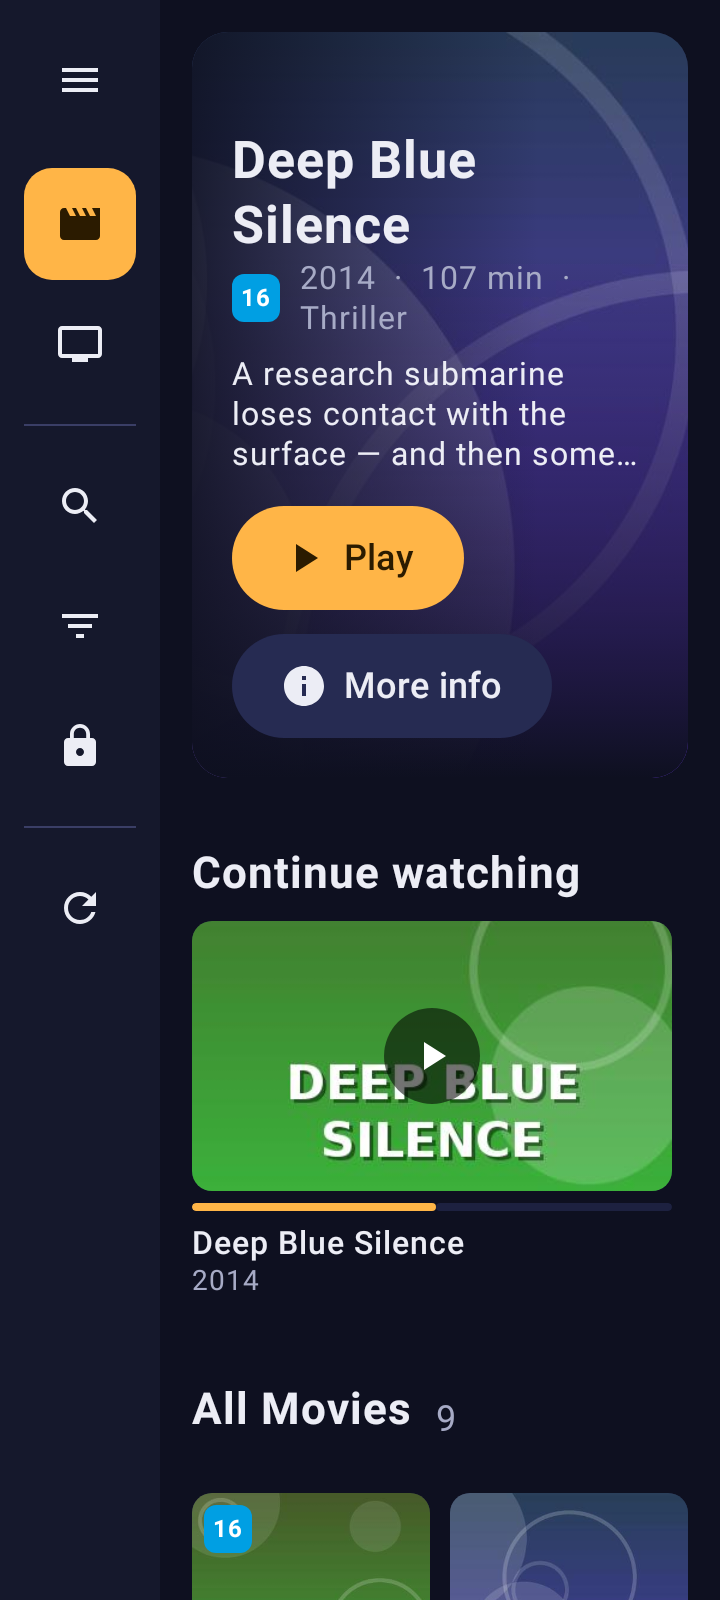
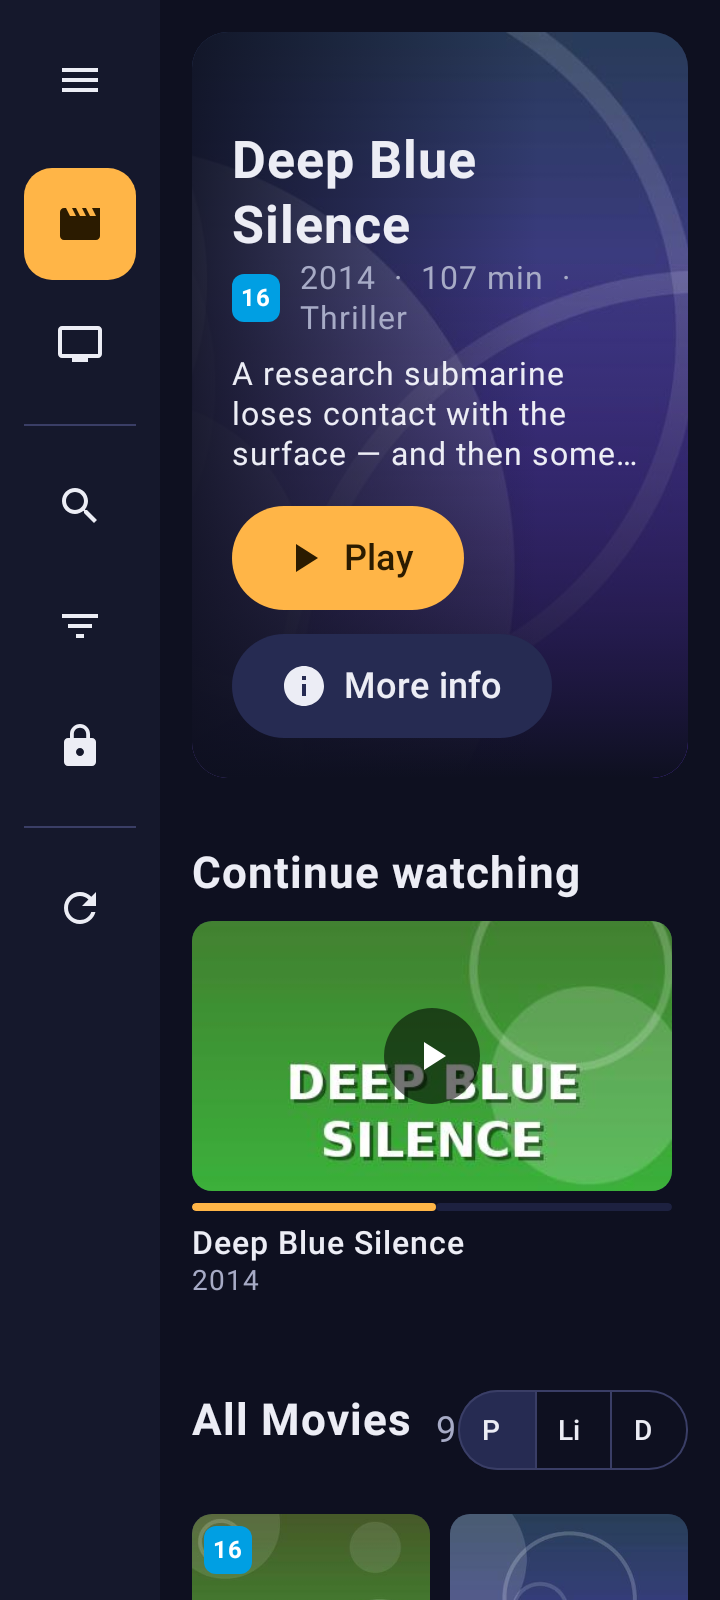
+ display modes for the walls: posters, list and details, remembered (closes #49) + list rows show poster, title, watched tick, age badge, year and runtime, genres, probed quality badges + details rows add two lines of plot * WatchedTick, QualityChips and rememberQuality shared from Badges.kt * READ

Changed region(s): [[0.2444, 0.8438, 0.9778, 1.0]]

diff --git a/app/src/main/kotlin/com/hawkynt/mediadroid/ui/Browse.kt b/app/src/main/kotlin/com/hawkynt/mediadroid/ui/Browse.kt
@@ -7,7 +7,6 @@ import androidx.compose.foundation.layout.BoxWithConstraints
 import androidx.compose.foundation.layout.Column
 import androidx.compose.foundation.layout.ExperimentalLayoutApi
 import androidx.compose.foundation.layout.FlowRow
-import androidx.compose.foundation.layout.heightIn
 import androidx.compose.foundation.layout.PaddingValues
 import androidx.compose.foundation.layout.Row
 import androidx.compose.foundation.layout.Spacer
@@ -15,6 +14,7 @@ import androidx.compose.foundation.layout.aspectRatio
 import androidx.compose.foundation.layout.fillMaxSize
 import androidx.compose.foundation.layout.fillMaxWidth
 import androidx.compose.foundation.layout.height
+import androidx.compose.foundation.layout.heightIn
 import androidx.compose.foundation.layout.padding
 import androidx.compose.foundation.layout.size
 import androidx.compose.foundation.layout.width
@@ -34,10 +34,14 @@ import androidx.compose.material.icons.filled.Info
 import androidx.compose.material.icons.filled.PlayArrow
 import androidx.compose.material3.AssistChip
 import androidx.compose.material3.Button
+import androidx.compose.material3.ExperimentalMaterial3Api
 import androidx.compose.material3.FilledTonalButton
 import androidx.compose.material3.Icon
 import androidx.compose.material3.LinearProgressIndicator
 import androidx.compose.material3.MaterialTheme
+import androidx.compose.material3.SegmentedButton
+import androidx.compose.material3.SegmentedButtonDefaults
+import androidx.compose.material3.SingleChoiceSegmentedButtonRow
 import androidx.compose.material3.Text
 import androidx.compose.runtime.Composable
 import androidx.compose.runtime.LaunchedEffect
@@ -102,13 +106,20 @@ fun BrowseScreen(
         LibrarySection.SHOWS -> "TV Shows"
     }
     val filtered = filter.copy(sort = SortOrder.TITLE) != BrowseFilter()
+    var mode by remember { mutableStateOf(store.wallMode) }
 
     // Phones get two or three posters across; tablets and TVs as many as fit.
     val compact = LocalConfiguration.current.screenWidthDp < 600
     val gutter = if (compact) 16.dp else 24.dp
     LazyVerticalGrid(
         state = gridState,
-        columns = GridCells.Adaptive(minSize = if (compact) 104.dp else 140.dp),
+        columns = GridCells.Adaptive(
+            minSize = when (mode) {
+                WallMode.POSTERS -> if (compact) 104.dp else 140.dp
+                WallMode.LIST -> 340.dp
+                WallMode.DETAILS -> 480.dp
+            },
+        ),
         contentPadding = PaddingValues(start = gutter, end = gutter, top = 16.dp, bottom = 32.dp),
         horizontalArrangement = Arrangement.spacedBy(if (compact) 10.dp else 14.dp),
         verticalArrangement = Arrangement.spacedBy(18.dp),
@@ -150,6 +161,15 @@ fun BrowseScreen(
                         modifier = Modifier.padding(top = 16.dp),
                     )
                 }
+                Spacer(Modifier.weight(1f).widthIn(min = 12.dp))
+                WallModeSwitch(
+                    mode,
+                    onChange = {
+                        mode = it
+                        store.saveWallMode(it)
+                    },
+                    modifier = Modifier.padding(top = 16.dp),
+                )
             }
         }
         if (items.isEmpty()) {
@@ -167,14 +187,93 @@ fun BrowseScreen(
             }
         }
         items(items, key = { it.key }) { item ->
-            PosterCard(
-                item = item,
-                watched = when (item) {
-                    is Movie -> store.marks.isWatched(item)
-                    is Show -> store.marks.isWatched(item)
-                },
-                onClick = { onOpen(item) },
+            val watched = when (item) {
+                is Movie -> store.marks.isWatched(item)
+                is Show -> store.marks.isWatched(item)
+            }
+            when (mode) {
+                WallMode.POSTERS -> PosterCard(item = item, watched = watched, onClick = { onOpen(item) })
+                else -> WallRow(item, watched, withPlot = mode == WallMode.DETAILS, onClick = { onOpen(item) })
+            }
+        }
+    }
+}
+
+/** Posters, a compact list, or a list with two lines of plot — the toggle at the head of the wall. */
+@OptIn(ExperimentalMaterial3Api::class)
+@Composable
+private fun WallModeSwitch(mode: WallMode, onChange: (WallMode) -> Unit, modifier: Modifier = Modifier) {
+    SingleChoiceSegmentedButtonRow(modifier) {
+        WallMode.entries.forEachIndexed { i, entry ->
+            SegmentedButton(
+                selected = mode == entry,
+                onClick = { onChange(entry) },
+                shape = SegmentedButtonDefaults.itemShape(i, WallMode.entries.size),
+                icon = {},
+                label = { Text(entry.label, fontSize = 14.sp, maxLines = 1) },
             )
+        }
+    }
+}
+
+/** One title as a list row: small poster, title with its watched tick, year and runtime, badges, plot. */
+@Composable
+private fun WallRow(item: MediaItem, watched: Boolean, withPlot: Boolean, onClick: () -> Unit) {
+    val shape = RoundedCornerShape(10.dp)
+    Row(
+        modifier = Modifier
+            .fillMaxWidth()
+            .clip(shape)
+            .focusClickable(shape = shape, onClick = onClick)
+            .padding(6.dp),
+    ) {
+        Box(
+            modifier = Modifier
+                .width(if (withPlot) 72.dp else 52.dp)
+                .aspectRatio(2f / 3f)
+                .clip(RoundedCornerShape(6.dp))
+                .background(MaterialTheme.colorScheme.surfaceVariant),
+        ) {
+            PosterImage(
+                item.posterPath,
+                fallbackLetter = item.title.take(1),
+                videoFallback = videoOf(item),
+                contentScale = ContentScale.Crop,
+            )
+        }
+        Spacer(Modifier.width(12.dp))
+        Column(Modifier.weight(1f), verticalArrangement = Arrangement.spacedBy(3.dp)) {
+            Row(verticalAlignment = Alignment.CenterVertically) {
+                Text(
+                    item.title,
+                    fontSize = 17.sp,
+                    fontWeight = FontWeight.SemiBold,
+                    maxLines = 1,
+                    overflow = TextOverflow.Ellipsis,
+                    modifier = Modifier.weight(1f, fill = false),
+                )
+                if (watched) {
+                    Spacer(Modifier.width(8.dp))
+                    WatchedTick(size = 20.dp)
+                }
+            }
+            Row(verticalAlignment = Alignment.CenterVertically) {
+                item.minAge?.let {
+                    AgeBadge(it, size = 18.dp)
+                    Spacer(Modifier.width(6.dp))
+                }
+                Text(
+                    metaLine(item),
+                    fontSize = 14.sp,
+                    color = MaterialTheme.colorScheme.onSurfaceVariant,
+                    maxLines = 1,
+                    overflow = TextOverflow.Ellipsis,
+                )
+            }
+            if (item is Movie) QualityChips(rememberQuality(item.videoPath, item.quality))
+            if (withPlot) {
+                plotOf(item)?.let { Text(it, fontSize = 14.sp, maxLines = 2, overflow = TextOverflow.Ellipsis) }
+            }
         }
     }
 }
@@ -235,12 +334,7 @@ private fun Hero(item: MediaItem, onPlay: () -> Unit, onInfo: () -> Unit) {
                     maxLines = 2,
                     overflow = TextOverflow.Ellipsis,
                 )
-                val meta = listOfNotNull(
-                    item.year?.toString(),
-                    (item as? Show)?.seasons?.size?.let { if (it == 1) "1 season" else "$it seasons" },
-                    (item as? Movie)?.runtimeMinutes?.let { "$it min" },
-                    item.genres.take(3).joinToString(" · ").ifEmpty { null },
-                ).joinToString("  ·  ")
+                val meta = metaLine(item)
                 Row(verticalAlignment = Alignment.CenterVertically) {
                     item.minAge?.let {
                         AgeBadge(it, size = 24.dp)
@@ -250,11 +344,7 @@ private fun Hero(item: MediaItem, onPlay: () -> Unit, onInfo: () -> Unit) {
                         Text(meta, fontSize = 16.sp, color = MaterialTheme.colorScheme.onSurfaceVariant)
                     }
                 }
-                val plot = when (item) {
-                    is Movie -> item.plot
-                    is Show -> item.plot
-                }
-                plot?.let {
+                plotOf(item)?.let {
                     Spacer(Modifier.height(8.dp))
                     Text(it, fontSize = 16.sp, maxLines = 3, overflow = TextOverflow.Ellipsis)
                 }
@@ -277,6 +367,19 @@ private fun Hero(item: MediaItem, onPlay: () -> Unit, onInfo: () -> Unit) {
             }
         }
     }
+}
+
+/** Year, seasons or runtime, and up to three genres, the way a card's second line reads. */
+private fun metaLine(item: MediaItem): String = listOfNotNull(
+    item.year?.toString(),
+    (item as? Show)?.seasons?.size?.let { if (it == 1) "1 season" else "$it seasons" },
+    (item as? Movie)?.runtimeMinutes?.let { "$it min" },
+    item.genres.take(3).joinToString(" · ").ifEmpty { null },
+).joinToString("  ·  ")
+
+private fun plotOf(item: MediaItem): String? = when (item) {
+    is Movie -> item.plot
+    is Show -> item.plot
 }
 
 private fun videoOf(item: MediaItem): String? = when (item) {
@@ -416,23 +519,7 @@ fun PosterCard(item: MediaItem, onClick: () -> Unit, watched: Boolean = false, m
             item.minAge?.let {
                 AgeBadge(it, size = 24.dp, modifier = Modifier.align(Alignment.TopStart).padding(6.dp))
             }
-            if (watched) {
-                Box(
-                    modifier = Modifier
-                        .align(Alignment.TopEnd)
-                        .padding(6.dp)
-                        .size(26.dp)
-                        .background(MaterialTheme.colorScheme.primary, CircleShape),
-                    contentAlignment = Alignment.Center,
-                ) {
-                    Icon(
-                        Icons.Filled.Check,
-                        contentDescription = "Watched",
-                        tint = MaterialTheme.colorScheme.onPrimary,
-                        modifier = Modifier.size(18.dp),
-                    )
-                }
-            }
+            if (watched) WatchedTick(Modifier.align(Alignment.TopEnd).padding(6.dp))
         }
         Text(
             item.title,
@@ -505,3 +592,7 @@ private fun LetterBox(fallbackLetter: String?) {
         }
     }
 }
+
+/** How the wall lays out its titles. */
+enum class WallMode(val label: String) { POSTERS("Posters"), LIST("List"), DETAILS("Details") }
+

diff --git a/app/src/main/kotlin/com/hawkynt/mediadroid/ui/Badges.kt b/app/src/main/kotlin/com/hawkynt/mediadroid/ui/Badges.kt
@@ -4,25 +4,34 @@ import androidx.compose.foundation.background
 import androidx.compose.foundation.layout.Arrangement
 import androidx.compose.foundation.layout.Box
 import androidx.compose.foundation.layout.BoxScope
-import androidx.compose.foundation.layout.fillMaxWidth
 import androidx.compose.foundation.layout.ExperimentalLayoutApi
 import androidx.compose.foundation.layout.FlowRow
 import androidx.compose.foundation.layout.Row
+import androidx.compose.foundation.layout.fillMaxWidth
 import androidx.compose.foundation.layout.padding
 import androidx.compose.foundation.layout.size
+import androidx.compose.foundation.shape.CircleShape
 import androidx.compose.foundation.shape.RoundedCornerShape
+import androidx.compose.material.icons.Icons
+import androidx.compose.material.icons.filled.Check
+import androidx.compose.material3.Icon
 import androidx.compose.material3.MaterialTheme
 import androidx.compose.material3.Text
 import androidx.compose.runtime.Composable
+import androidx.compose.runtime.getValue
+import androidx.compose.runtime.produceState
 import androidx.compose.ui.Alignment
 import androidx.compose.ui.Modifier
 import androidx.compose.ui.graphics.Color
+import androidx.compose.ui.platform.LocalContext
 import androidx.compose.ui.text.font.FontWeight
 import androidx.compose.ui.unit.Dp
 import androidx.compose.ui.unit.dp
 import androidx.compose.ui.unit.sp
+import com.hawkynt.mediadroid.data.QualityStore
 import com.hawkynt.mediadroid.library.Languages
 import com.hawkynt.mediadroid.library.Quality
+import com.hawkynt.mediadroid.nfo.StreamDetails
 
 /**
  * The minimum age as a square badge in the colours German households know from FSK labels —
@@ -125,3 +134,56 @@ private fun ThumbChip(text: String, bold: Boolean = false) {
             .padding(horizontal = 3.dp, vertical = 1.dp),
     )
 }
+
+/** Quality badges in a line of their own, for list rows rather than over a picture. */
+@OptIn(ExperimentalLayoutApi::class)
+@Composable
+fun QualityChips(quality: Quality, modifier: Modifier = Modifier) {
+    if (quality.badges.isEmpty()) return
+    FlowRow(
+        modifier = modifier,
+        horizontalArrangement = Arrangement.spacedBy(4.dp),
+        verticalArrangement = Arrangement.spacedBy(4.dp),
+    ) {
+        quality.badges.forEach {
+            Text(
+                it,
+                fontSize = 11.sp,
+                lineHeight = 13.sp,
+                fontWeight = FontWeight.Bold,
+                color = MaterialTheme.colorScheme.onSurfaceVariant,
+                maxLines = 1,
+                modifier = Modifier
+                    .background(MaterialTheme.colorScheme.surfaceVariant, RoundedCornerShape(3.dp))
+                    .padding(horizontal = 4.dp, vertical = 1.dp),
+            )
+        }
+    }
+}
+
+/** What [videoPath] really holds, probed once and cached; [fallback] (the NFO's) until then or when unreadable. */
+@Composable
+fun rememberQuality(videoPath: String, fallback: Quality): Quality {
+    val context = LocalContext.current
+    val probed by produceState<StreamDetails?>(null, videoPath) {
+        value = QualityStore.of(context).detailsFor(videoPath)
+    }
+    return probed?.let { Quality.of(it) } ?: fallback
+}
+
+/** The round tick a watched title carries. */
+@Composable
+fun WatchedTick(modifier: Modifier = Modifier, size: Dp = 26.dp) {
+    Box(
+        modifier = modifier.size(size).background(MaterialTheme.colorScheme.primary, CircleShape),
+        contentAlignment = Alignment.Center,
+    ) {
+        Icon(
+            Icons.Filled.Check,
+            contentDescription = "Watched",
+            tint = MaterialTheme.colorScheme.onPrimary,
+            modifier = Modifier.size(size * 0.7f),
+        )
+    }
+}
+

diff --git a/app/src/main/kotlin/com/hawkynt/mediadroid/data/StateStore.kt b/app/src/main/kotlin/com/hawkynt/mediadroid/data/StateStore.kt
@@ -9,6 +9,7 @@ import com.hawkynt.mediadroid.library.SortOrder
 import com.hawkynt.mediadroid.library.WatchMarks
 import com.hawkynt.mediadroid.player.PictureAdjustment
 import com.hawkynt.mediadroid.player.SubtitleLook
+import com.hawkynt.mediadroid.ui.WallMode
 import java.io.File
 import kotlinx.serialization.Serializable
 import kotlinx.serialization.json.Json
@@ -76,6 +77,7 @@ data class AppData(
     val picture: MutableMap<String, PictureOverride> = mutableMapOf(),
     val audioDelays: MutableMap<String, Int> = mutableMapOf(), // lip-sync per audio output, in ms
     val sorts: MutableMap<String, String> = mutableMapOf(), // SortOrder per LibrarySection, by name
+    var wallMode: String = "",                 // WallMode by name; "" is posters
     val subtitles: MutableMap<String, SubtitleOverride> = mutableMapOf(),
     var settings: Settings = Settings(),
 )
@@ -154,6 +156,14 @@ class StateStore(context: Context) {
     /** The order the [section]'s wall was last sorted by; A–Z until one is chosen. */
     fun sortFor(section: LibrarySection): SortOrder =
         data.sorts[section.name]?.let { name -> SortOrder.entries.firstOrNull { it.name == name } } ?: SortOrder.TITLE
+
+    /** Posters, list or details, as the walls were last laid out. */
+    val wallMode: WallMode get() = WallMode.entries.firstOrNull { it.name == data.wallMode } ?: WallMode.POSTERS
+
+    fun saveWallMode(mode: WallMode) {
+        data.wallMode = mode.name
+        save()
+    }
 
     fun saveSort(section: LibrarySection, order: SortOrder) {
         data.sorts[section.name] = order.name

diff --git a/README.md b/README.md
@@ -76,6 +76,7 @@ Media libraries on Android are usually either a raw file browser or a client of 
 - With a second screen attached (HDMI, a USB-C dock, a wireless display) a button sends the video alone there; the phone keeps the controls.
 - Parent-guarded settings behind a four-digit PIN, freshly drawn on every visit and shown on screen as words — a child who cannot read cannot get in, and nobody has to remember anything. There: default speed, loudness boost for unnormalized audio, the default brightness/gamma/contrast/color every video starts from, subtitle and stream languages, and a maximum-age mode that hides content whose NFO certification is too old (FSK, MPAA and TV ratings understood).
 - Instant search across the whole library.
+- Three ways to lay out a wall, switched at its head and remembered: posters, a compact list (small poster, title, year and runtime or seasons, genres, age badge and the quality badges probed from the file) and a details list that adds two lines of plot — for remotes and for libraries too big to scan by pictures.
 - Filter by genre and year, group by decade, facet counts as you browse.
 - Sort each wall its own way, remembered per section: title A–Z or Z–A, newest or oldest, recently added (the NFO's `<dateadded>`, else the file's time), runtime shortest or longest first and, where NFOs carry it, best rated; TV shows add recently updated, the show with the newest episode first.
 - Big touch targets and high contrast — usable by kids and older users without glasses-or-guessing.
@@ -136,7 +137,6 @@ Specified, not built yet. Prior art: [Nova Video Player](https://github.com/nova
 From the same look at Nova's library side: what it browses, what an item tells about itself, and where.
 
 - **More rows on each home.** Under Continue watching: *Recently added* (by the file's date on disk, newest first), *Not watched yet* and, for shows, *New episodes* (shows whose newest episode is unwatched, newest first). Each row scrolls sideways and ends in a "See all" that opens the full wall in that order.
-- **Display modes.** Posters (today's wall), a compact list (thumbnail, title, year, runtime, badges) and a details list that adds two lines of plot — for remotes and for libraries too big to scan by pictures.
 - **Jump by letter.** Long libraries get an A–Z rail along the edge of the wall; dragging along it jumps to the letter, the letter shows big while dragging.
 - **Browse by genre and year as places.** Besides the filter chips, Genres and Years are entries in the sidebar that open a list of genres / decades with counts and a poster collage each, leading to the wall for one of them.
 - **Files.** A Files entry in the sidebar browses storage as it really is, like a file manager: the device's internal storage, the SD card, USB drives and every saved network or cloud source — not only the media library. The structure is never reinterpreted: folders and files keep their real names when nothing better is known (no release-name clean-up), and nothing is grouped into movies, shows or seasons. What sits beside them is respected, though: a video's NFO gives it its title, plot, age badge and watched state, and the usual art shows — `folder.jpg` / `poster.*` as a folder's cover, `<name>.jpg`, `<name>-poster.*` or `<name>-thumb.*` for a video — falling back to a frame from the video. Folders come first, then videos with their picture, duration and badges, sorted by name, date or size. Tapping a video plays it in the same player with resume; binge mode simply goes on to the next video in the same folder in that order, and Play on a folder starts with its first.
